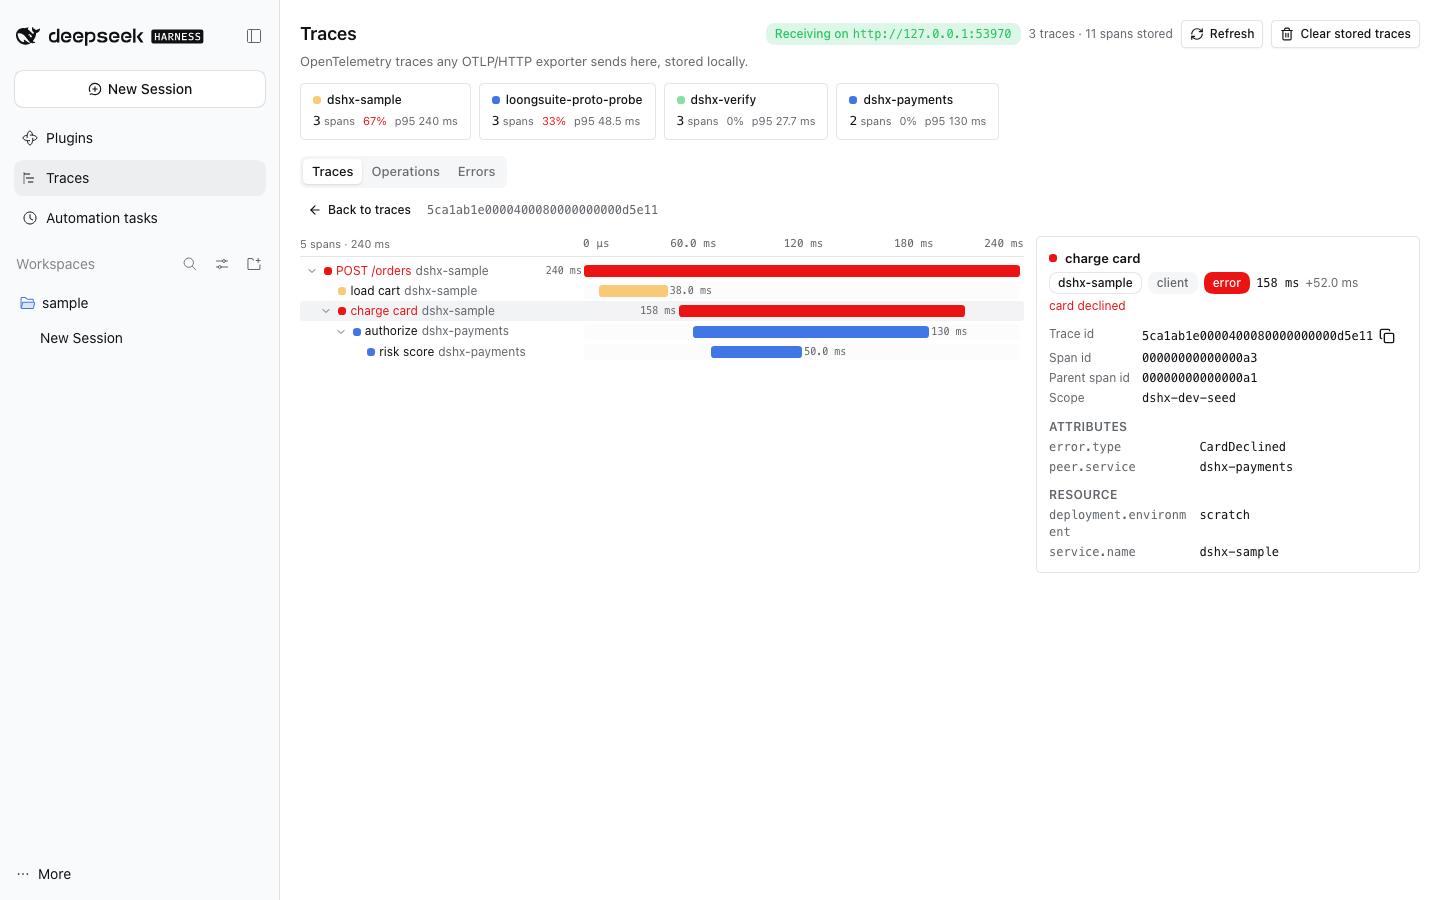
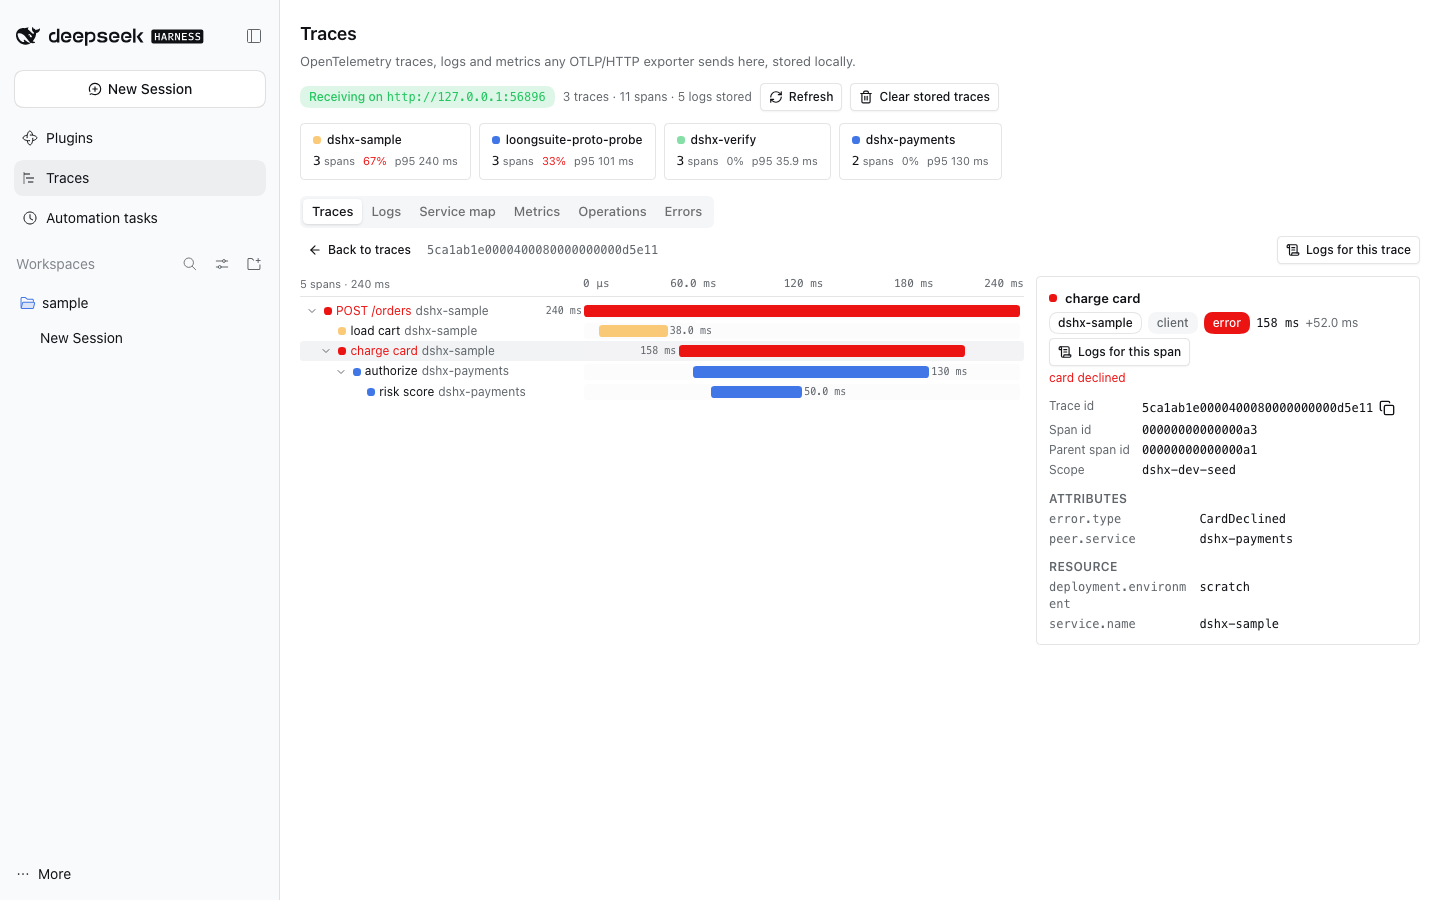
fix(traces): fit the Traces panel in 360 and 480 px panes
A 360 px pane scrolled the whole panel sideways by 130 px (10 px at
480): the six-tab strip could not shrink, the trace table squeezed the
root span name to a few letters, waterfall axis labels overlapped and
metric chart legends ran past the card. The tab strip now scrolls on its
own, narrow panes drop the Started column (kept as the row title) and the
intermediate axis ticks, and the chart card clips its legend. Service map
boxes widen so their stats fit, a metric chart pads a single-instant time
axis (delta exports), and Last is shown only for single-series metrics.
Screenshots of every tab are refreshed.

Changed region(s): [[0.1875, 0.0, 0.9688, 0.7156], [0.8438, 0.6844, 0.875, 0.7156]]

diff --git a/plugins/@dshfiles/traces/src/metrics-view.tsx b/plugins/@dshfiles/traces/src/metrics-view.tsx
@@ -34,18 +34,26 @@ const MetricChart = (props: { readonly series: MetricSeries; readonly t: TracesT
     [props.series],
   )
   const labels = useMemo(() => [...new Set(points.map(point => point.series))], [points])
+  // A delta export puts every series at one instant; pad the axis so a single time still reads as a time.
+  const timeDomain = useMemo((): [number, number] => {
+    const times = points.map(point => point.timeMs)
+    const first = Math.min(...times)
+    const last = Math.max(...times)
+    const pad = Math.max(30_000, (last - first) * 0.05)
+    return [first - pad, last + pad]
+  }, [points])
   const definition = useMemo(
     () =>
       defineChart({
         marks: [lineY(points, { x: 'timeMs', y: 'value', z: 'series', color: 'series', points: true, strokeWidth: 1.5 })],
         scales: {
-          x: { scale: scaleLinear, axis: { ticks: { count: 4, format: value => TraceFormat.clock(Number(value)) } } },
+          x: { scale: scaleLinear().domain(timeDomain), axis: { ticks: { count: 4, format: value => TraceFormat.clock(Number(value)) } } },
           y: { scale: scaleLinear, grid: true, axis: { ticks: { count: 4, format: value => formatNumber(Number(value)) } } },
         },
         color: { domain: labels, legend: colorLegend({ placement: 'bottom' }) },
         tooltip: { use: tooltip, format: point => `${TraceFormat.clock(point.datum.timeMs)} · ${point.datum.series}: ${formatNumber(point.datum.value)}` },
       }),
-    [points, labels],
+    [points, labels, timeDomain],
   )
   const kind =
     props.series.valueKind === 'increase' ? props.t('metricIncrease') : props.series.valueKind === 'mean' ? props.t('metricMean') : props.t('metricValue')
@@ -53,7 +61,7 @@ const MetricChart = (props: { readonly series: MetricSeries; readonly t: TracesT
     <ChartFrame
       title={`${props.series.name}${props.series.unit === null ? '' : ` (${props.series.unit})`}`}
       description={[props.series.service, kind, props.series.description].filter(Boolean).join(' · ')}
-      className="dshx:rounded-lg dshx:border dshx:p-3"
+      className="dshx:overflow-hidden dshx:rounded-lg dshx:border dshx:p-3"
     >
       {points.length === 0 ? (
         <p className="dshx:text-xs">{props.t('metricNoPoints')}</p>

diff --git a/plugins/@dshfiles/traces/src/trace-list.tsx b/plugins/@dshfiles/traces/src/trace-list.tsx
@@ -30,9 +30,9 @@ export const TraceList = (props: {
       <Table aria-label={props.t('tabTraces')}>
         <TableHeader>
           <TableRow>
-            <TableHead className="dshx:w-28">{props.t('started')}</TableHead>
+            <TableHead className="dshx:w-28 dshx:@max-pane-narrow:hidden">{props.t('started')}</TableHead>
             <TableHead>{props.t('root')}</TableHead>
-            <TableHead className="dshx:w-40">{props.t('duration')}</TableHead>
+            <TableHead className="dshx:w-40 dshx:@max-pane-narrow:w-20">{props.t('duration')}</TableHead>
             <TableHead className="dshx:w-16 dshx:text-right dshx:@max-pane-narrow:hidden">{props.t('spanCount')}</TableHead>
             <TableHead className="dshx:w-16 dshx:text-right">{props.t('errorCount')}</TableHead>
           </TableRow>
@@ -45,6 +45,7 @@ export const TraceList = (props: {
               className="dshx:cursor-pointer"
               tabIndex={0}
               aria-label={`${trace.rootService} ${trace.rootName}`}
+              title={`${new Date(trace.startMs).toLocaleString()} · ${trace.rootService} ${trace.rootName}`}
               onClick={() => props.onOpen(trace.traceId)}
               onKeyDown={event => {
                 if (event.key === 'Enter' || event.key === ' ') {
@@ -53,7 +54,10 @@ export const TraceList = (props: {
                 }
               }}
             >
-              <TableCell className="dshx:font-mono dshx:text-xs dshx:text-muted-foreground" title={new Date(trace.startMs).toLocaleString()}>
+              <TableCell
+                className="dshx:font-mono dshx:text-xs dshx:text-muted-foreground dshx:@max-pane-narrow:hidden"
+                title={new Date(trace.startMs).toLocaleString()}
+              >
                 {TraceFormat.clock(trace.startMs)}
               </TableCell>
               <TableCell className="dshx:max-w-0">

diff --git a/plugins/@dshfiles/traces/src/service-map.tsx b/plugins/@dshfiles/traces/src/service-map.tsx
@@ -4,7 +4,7 @@ import type { TracesTranslate } from './locales.js'
 import { ServiceMapLayout } from './service-map-layout.js'
 import type { ServiceMap } from './types.js'
 
-const NODE_WIDTH = 168
+const NODE_WIDTH = 216
 const NODE_HEIGHT = 52
 const COLUMN_GAP = 96
 const ROW_GAP = 28
@@ -109,7 +109,7 @@ export const ServiceMapView = (props: {
                 />
                 <rect width={6} height={NODE_HEIGHT} rx={3} className={TraceFormat.serviceFill(node.service)} />
                 <text x={16} y={21} className="dshx:fill-foreground dshx:text-xs dshx:font-medium">
-                  {node.service.length > 22 ? `${node.service.slice(0, 21)}…` : node.service}
+                  {node.service.length > 28 ? `${node.service.slice(0, 27)}…` : node.service}
                 </text>
                 <text x={16} y={38} className="dshx:fill-muted-foreground dshx:font-mono dshx:text-[10px]">
                   {summary === undefined

diff --git a/plugins/@dshfiles/traces/src/api.ts b/plugins/@dshfiles/traces/src/api.ts
@@ -124,7 +124,7 @@ export const tracesApi = defineApi({
         .strict(),
       output: z.object({ metrics: z.array(metricSummarySchema) }).strict(),
       description:
-        'Stored OpenTelemetry metrics received on /v1/metrics, per service and name: type, unit, description, point and series counts, last time and last value. Read-only.',
+        'Stored OpenTelemetry metrics received on /v1/metrics, per service and name: type, unit, description, point and series counts, last time, and the last value when the metric has a single series. Read-only.',
       tool: { name: 'traces_list_metrics', readOnly: true, render: compactJson },
     }),
     metric: method({

diff --git a/plugins/@dshfiles/traces/src/panel.tsx b/plugins/@dshfiles/traces/src/panel.tsx
@@ -161,7 +161,7 @@ export const TracesPanel = (props: {
 
       <Tabs value={view.tab} onValueChange={value => update({ tab: tracesViewSchema.shape.tab.parse(value) })} className="dshx:min-h-0 dshx:flex-1">
         <div className="dshx:flex dshx:flex-wrap dshx:items-center dshx:justify-between dshx:gap-2">
-          <TabsList>
+          <TabsList className="dshx:max-w-full dshx:justify-start dshx:overflow-x-auto">
             <TabsTrigger value="traces">{t('tabTraces')}</TabsTrigger>
             <TabsTrigger value="logs">{t('tabLogs')}</TabsTrigger>
             <TabsTrigger value="map">{t('tabMap')}</TabsTrigger>

diff --git a/plugins/@dshfiles/traces/src/trace-detail.tsx b/plugins/@dshfiles/traces/src/trace-detail.tsx
@@ -173,6 +173,7 @@ export const TraceDetailView = (props: {
                 className={cn(
                   'dshx:absolute dshx:top-0 dshx:whitespace-nowrap dshx:font-mono',
                   tick.fraction === 1 ? 'dshx:-translate-x-full' : tick.fraction > 0 ? 'dshx:-translate-x-1/2' : '',
+                  tick.fraction > 0 && tick.fraction < 1 ? 'dshx:@max-pane-narrow:hidden' : '',
                 )}
                 style={{ left: `${String(tick.fraction * 100)}%` }}
               >

diff --git a/plugins/@dshfiles/traces/src/store.test.ts b/plugins/@dshfiles/traces/src/store.test.ts
@@ -309,7 +309,7 @@ describe('trace store', () => {
     )
     expect(store.listMetrics({ windowMinutes: 60 }).map(metric => [metric.name, metric.type, metric.points, metric.series, metric.lastValue])).toEqual([
       ['cpu.usage', 'gauge', 1, 1, 0.4],
-      ['http.requests', 'sum', 4, 2, 3],
+      ['http.requests', 'sum', 4, 2, null],
     ])
     const series = store.metricSeries({ name: 'http.requests', service: 'web', windowMinutes: 60 })
     expect(series.valueKind).toBe('increase')

diff --git a/plugins/@dshfiles/traces/src/store.ts b/plugins/@dshfiles/traces/src/store.ts
@@ -546,7 +546,7 @@ export const openTraceStore = (options: { readonly path: string; readonly now?: 
         points: row.points,
         series: row.series,
         lastMs: usToMs(row.last_us),
-        lastValue: row.last_value,
+        lastValue: row.series === 1 ? row.last_value : null,
       }))
   }
 

diff --git a/plugins/@dshfiles/traces/README.md b/plugins/@dshfiles/traces/README.md
@@ -2,6 +2,12 @@
 
 ![Trace list and span waterfall](docs/screenshots/trace-explorer.png)
 
+![Log search with trace correlation](docs/screenshots/log-explorer.png)
+
+![Service dependency map](docs/screenshots/service-map.png)
+
+![Metric list with one chart per metric](docs/screenshots/metric-charts.png)
+
 A local OpenTelemetry viewer inside DSH, in the spirit of [Maple Local](https://maple.dev/): one OTLP/HTTP receiver on
 `127.0.0.1:4318`, an embedded SQLite store, a typed query API with agent tools, and a **Traces** panel with a trace
 list, a span waterfall, a per-span attribute panel, log search correlated with traces and spans, a service map, metric
